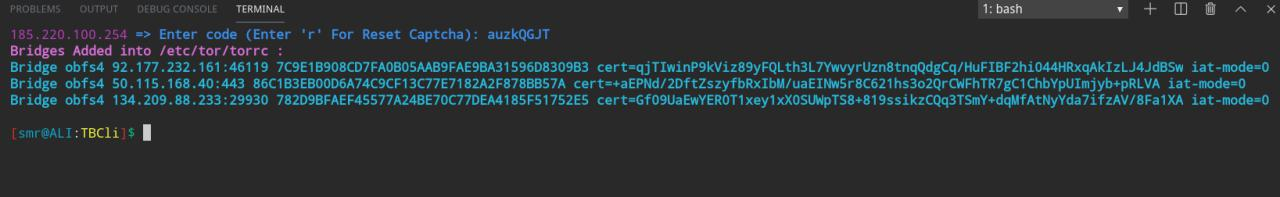
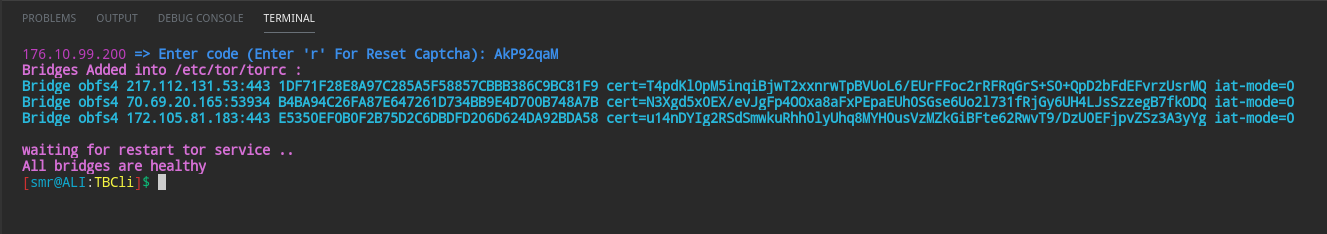
some bugs fixed. screeshow updated

Changed region(s): [[0.0, 0.0305, 1.0, 0.5482], [0.0, 0.6091, 0.2188, 0.8223], [0.75, 0.0, 1.0, 0.0914]]

diff --git a/README.md b/README.md
@@ -26,15 +26,15 @@ get bridges :
 sudo get-tor-bridges
 ```
 
-**read code from image (**for example =>` 9autjyaz`**) and write in terminal**
+**read code from image (**for example =>` AkP92qaM`**) and write in terminal**
 
 ```bash
-your ip => enter code (enter r for reset captcha) : 9autjyaz
+{Tor ip} => enter code (enter r for reset captcha) : AkP92qaM
 
 Bridges Added into /etc/tor/torrc :
-Bridge obfs4 87.239.87.142:43618 562C4B1FB0DAEFFDDDAD..............
-Bridge obfs4 217.12.199.62:44313 F7AD3CC4C00786BA4F.............
-Bridge obfs4 104.175.38.225:34363 8014246EC27A8BBF1A...........
+Bridge obfs4 217.112.131.53:443 1DF71F28E8A97C285A5F58857...........
+Bridge obfs4 70.69.20.165:53934 B4BA94C26FA87E647261D734B..........
+Bridge obfs4 172.105.81.183:443 E5350EF0B0F2B75D2C6DBDFD2..........
 ```
 
 ## Remove bad bridges
